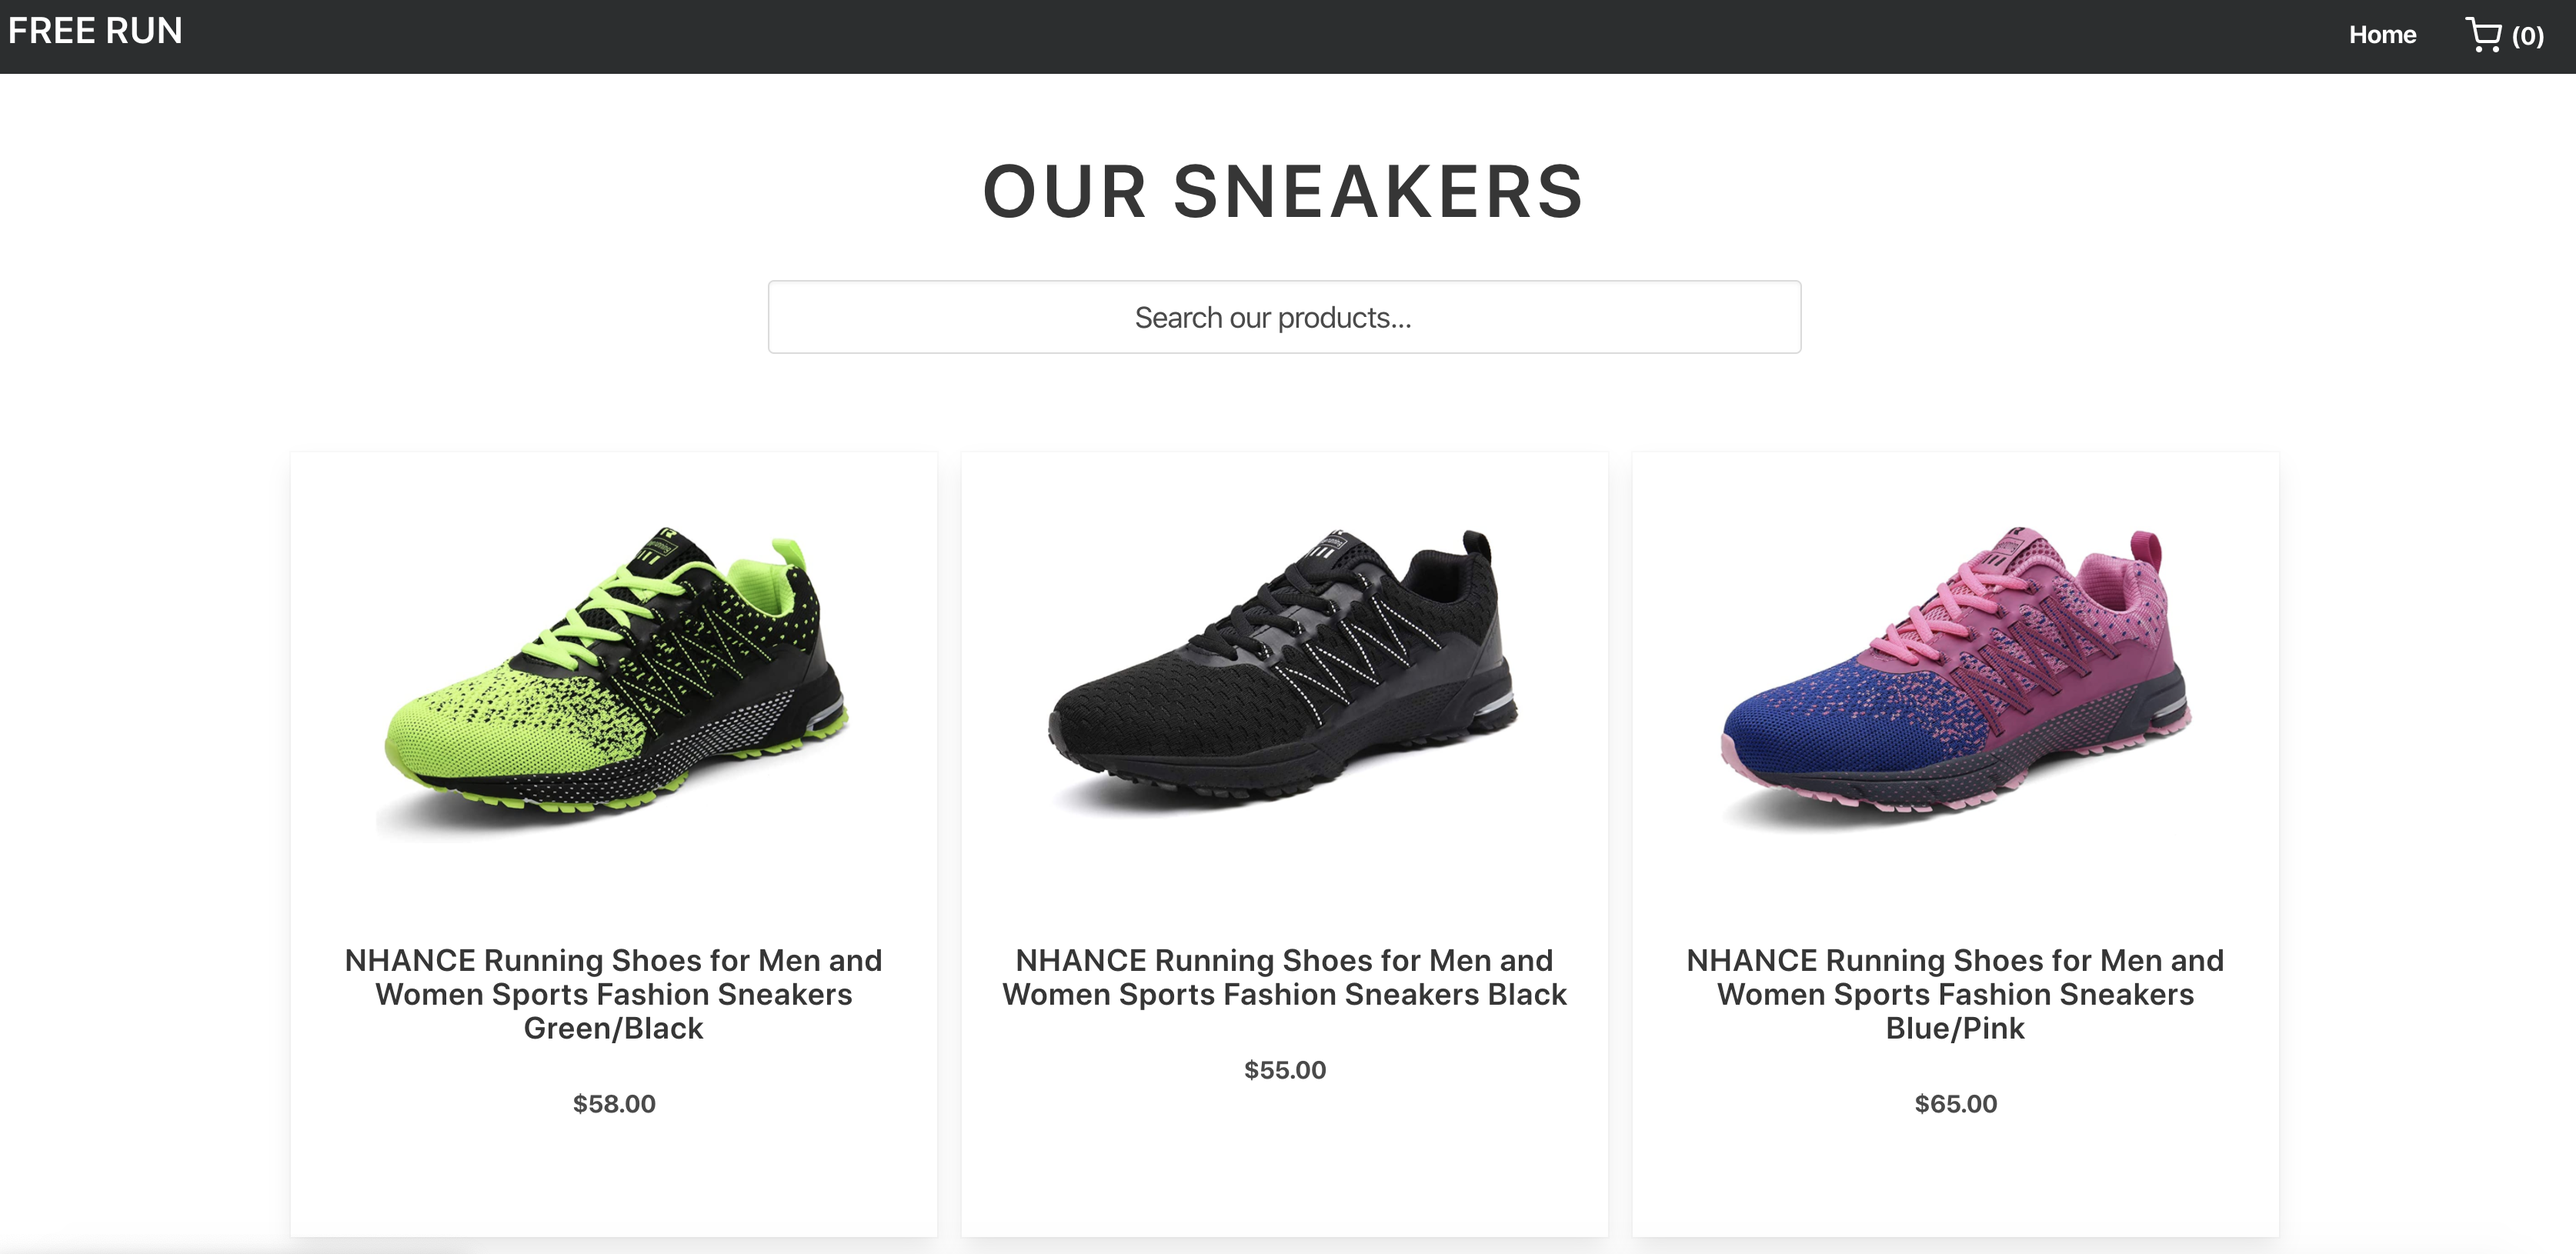
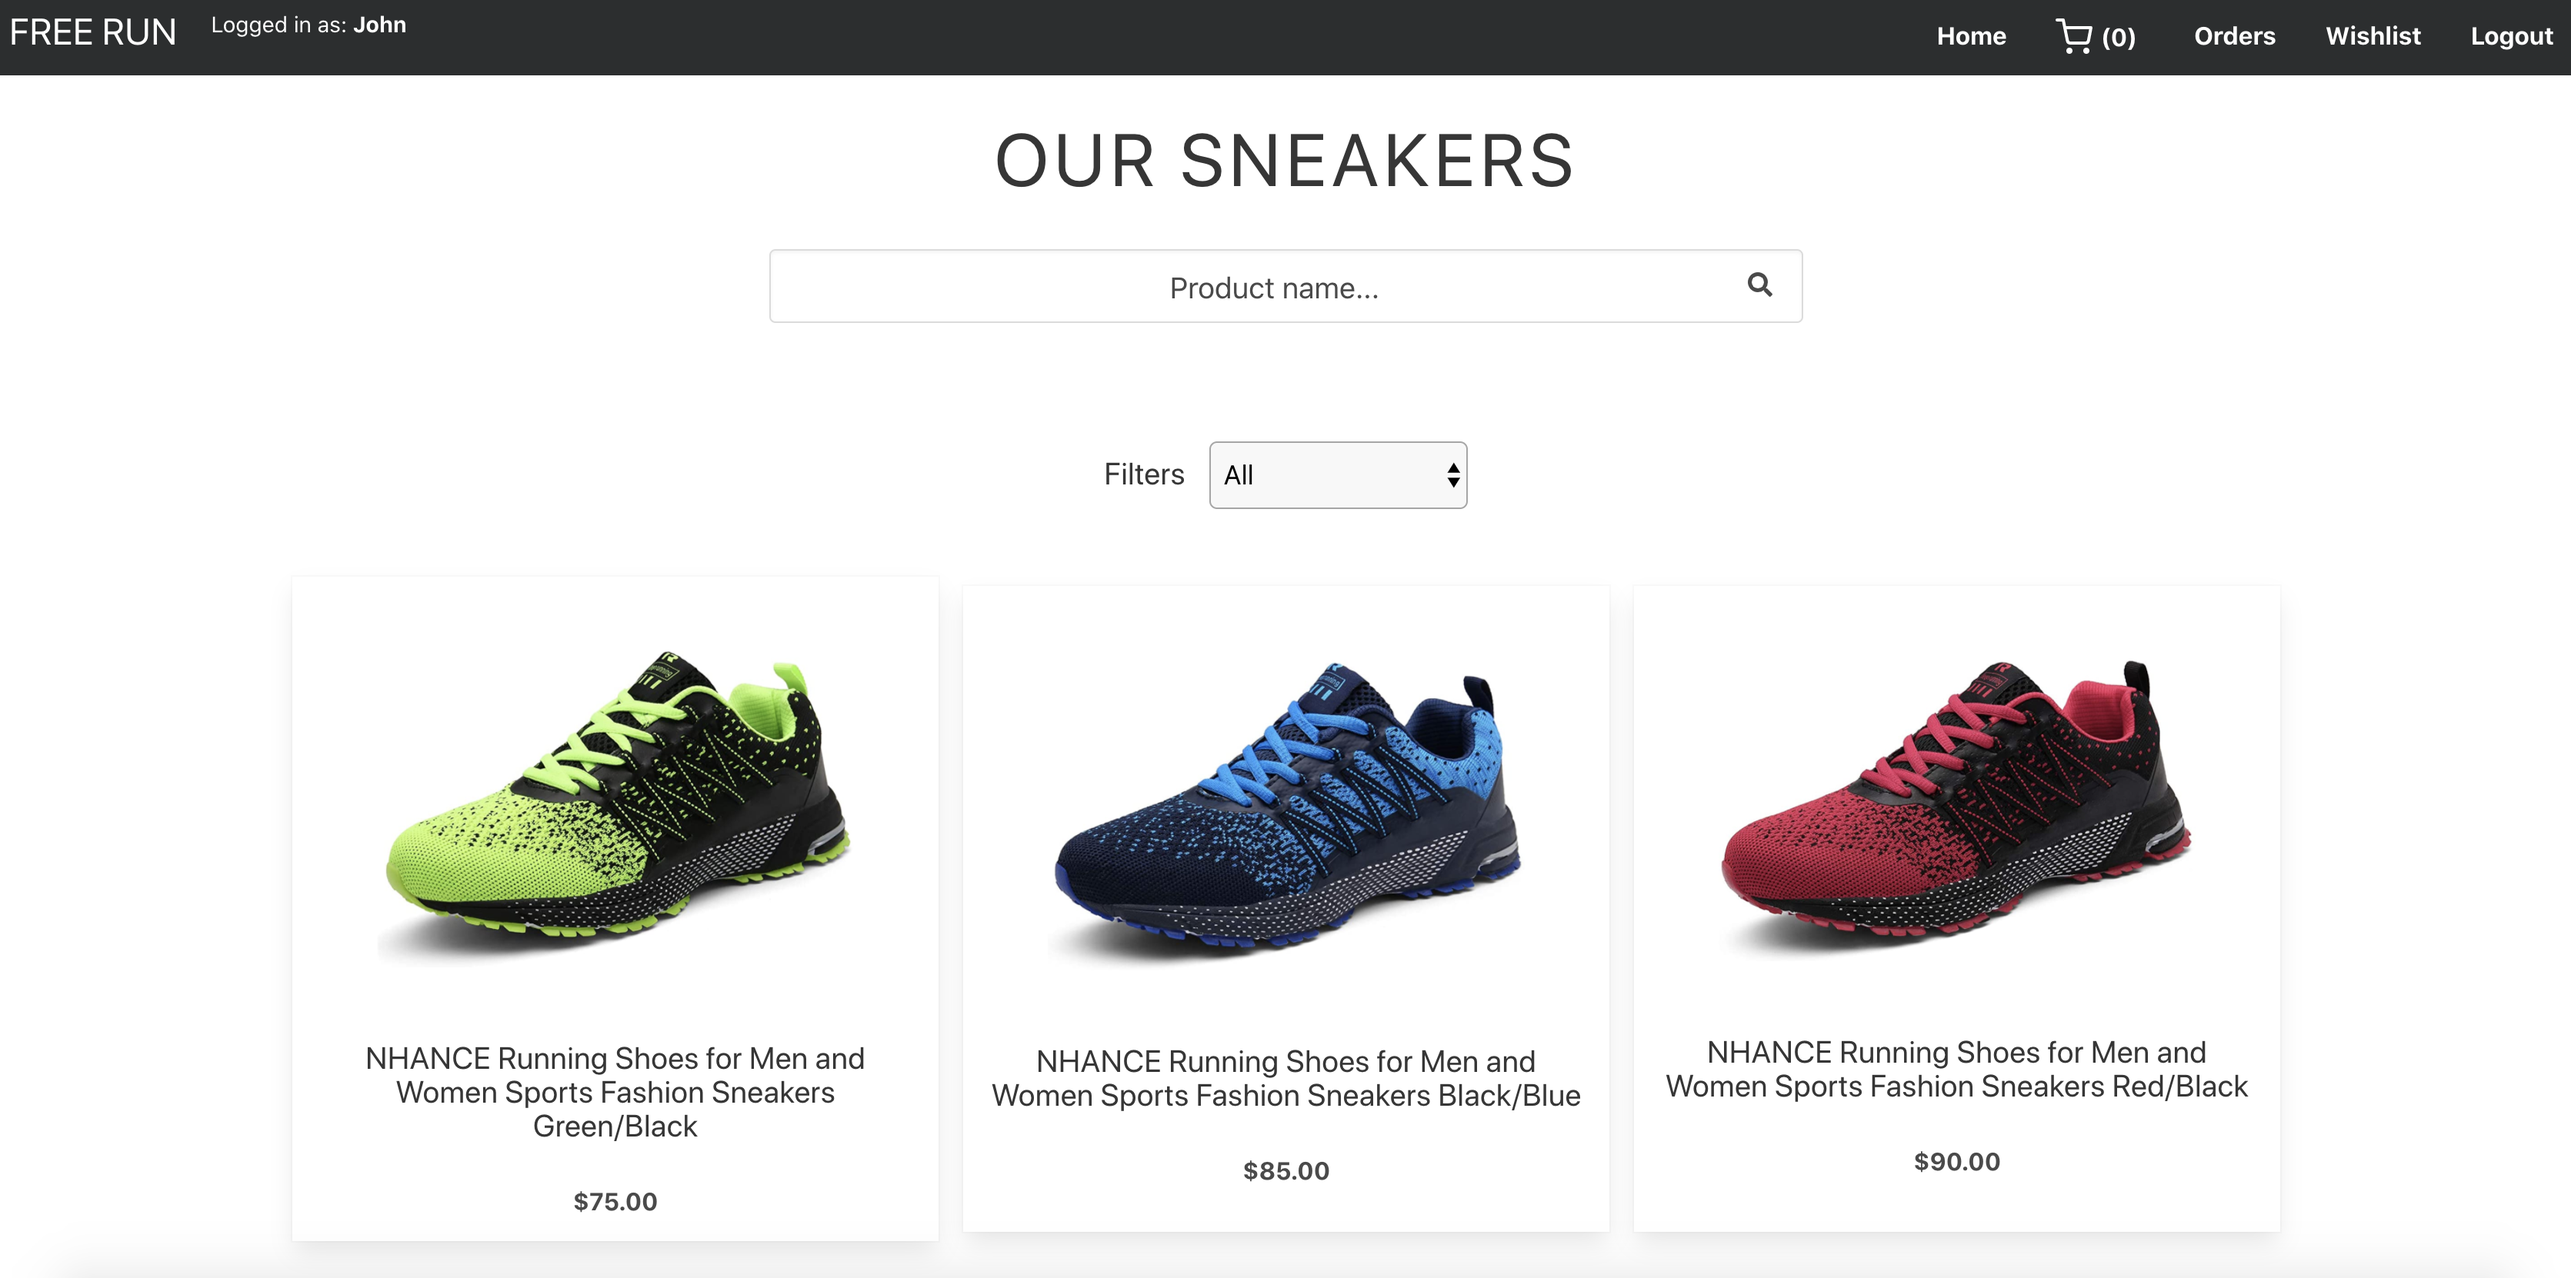
Update the README.md file

diff --git a/README.md b/README.md
@@ -118,12 +118,15 @@ yarn start
 <!-- USAGE EXAMPLES -->
 ## Usage
 
-- On the website you will fin a list of products, clicking on each product will take you to its page which has an **add to cart** button that adds the product to the cart if the stock is more than 0 and the button is visible.
+- On the website you will fin a list of products, as a **guest user** clicking on each product will take you to its page which has an **add to cart** button that adds the product to the cart if the stock is more than 0 and the button is visible.
+- As a **regular user**(logged in user) by clicking on a product it would take you to its page which would have an additional **add to wishlist** button which would add the product to the user's wishlist where you can view or delete products from it.
+- The **admin user** has the ability to add products from the menu bar, as well as updating or removing them (available from every single product's page).
 - Once on the cart you can increase or decrease each product's quantity or remove it from the cart, you can also empty the whole cart or pay with the **PayPal checkout** button.
 - By clicking the **PayPal checkout** button a window will pop-up that uses **PayPal sandbox** (mocking the real payment features) you can copy/paste the following credentials to test the payment functionality and how the app handles it:
  - PayPal Sandbox Email: `sb-3sfev1297483@personal.example.com`
  - PayPal Sandbox Password: `Vp?7l8an`
 - After the payment you will be redirected to the home page and each quantity you bought will be deducted from the product's stock.
+- As a **regular user** you will also have the ability to view your previous orders and the history of the purchased products in every order.
 
 
 
